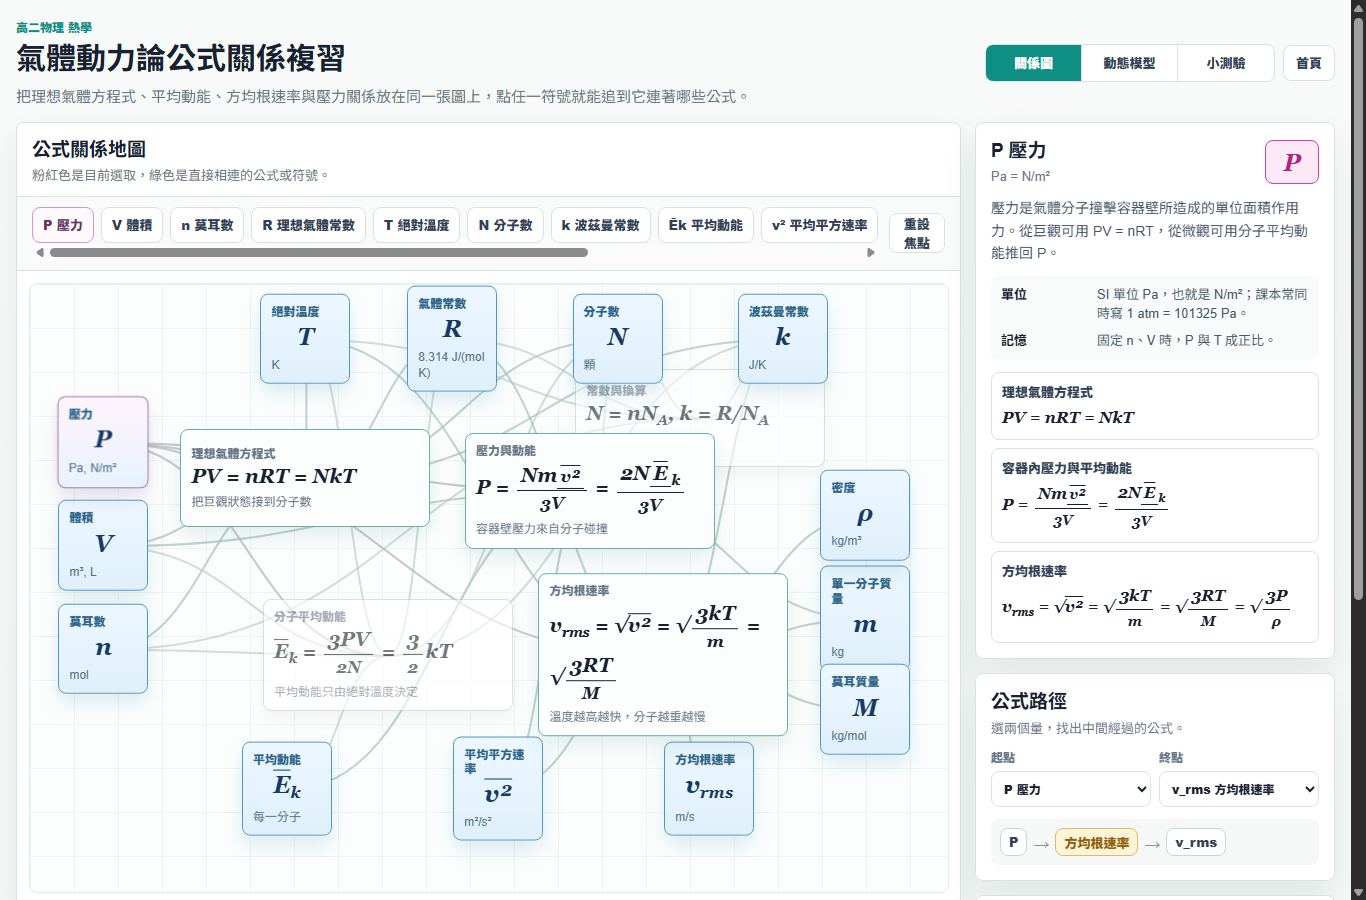
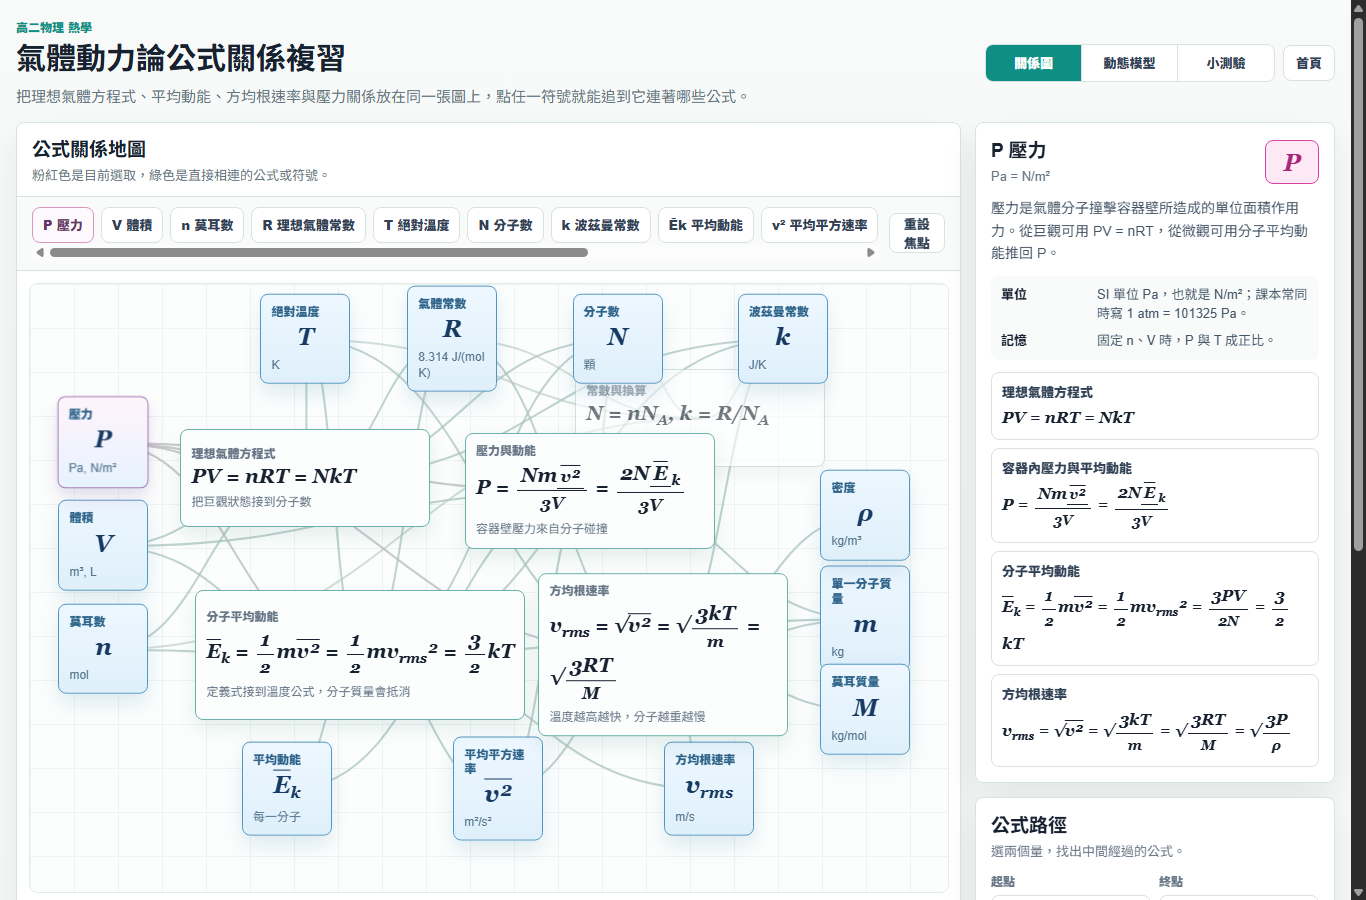
Add kinetic energy definition to gas review

diff --git a/gas-kinetic-theory.html b/gas-kinetic-theory.html
@@ -902,7 +902,7 @@
 
               <div class="node formula" data-id="ideal" data-kind="formula" style="--x:30%;--y:32%;"><button type="button"><span class="node-label">理想氣體方程式</span><span class="node-title math">PV = nRT = NkT</span><span class="node-desc">把巨觀狀態接到分子數</span></button></div>
               <div class="node formula" data-id="pressure" data-kind="formula" style="--x:61%;--y:34%;"><button type="button"><span class="node-label">壓力與動能</span><span class="node-title math">P = <span class="frac"><span>Nm<span class="overline">v²</span></span><span>3V</span></span> = <span class="frac"><span>2N<span class="overline">E</span><sub>k</sub></span><span>3V</span></span></span><span class="node-desc">容器壁壓力來自分子碰撞</span></button></div>
-              <div class="node formula" data-id="energy" data-kind="formula" style="--x:39%;--y:61%;"><button type="button"><span class="node-label">分子平均動能</span><span class="node-title math"><span class="overline">E</span><sub>k</sub> = <span class="frac"><span>3PV</span><span>2N</span></span> = <span class="frac"><span>3</span><span>2</span></span>kT</span><span class="node-desc">平均動能只由絕對溫度決定</span></button></div>
+              <div class="node formula" data-id="energy" data-kind="formula" style="--x:36%;--y:61%;--w:330px;--h:128px;"><button type="button"><span class="node-label">分子平均動能</span><span class="node-title math"><span class="overline">E</span><sub>k</sub> = <span class="frac"><span>1</span><span>2</span></span>m<span class="overline">v²</span> = <span class="frac"><span>1</span><span>2</span></span>mv<sub>rms</sub>² = <span class="frac"><span>3</span><span>2</span></span>kT</span><span class="node-desc">定義式接到溫度公式，分子質量會抵消</span></button></div>
               <div class="node formula" data-id="speed" data-kind="formula" style="--x:69%;--y:61%;"><button type="button"><span class="node-label">方均根速率</span><span class="node-title math">v<sub>rms</sub> = √<span class="overline">v²</span> = √<span class="frac"><span>3kT</span><span>m</span></span> = √<span class="frac"><span>3RT</span><span>M</span></span></span><span class="node-desc">溫度越高越快，分子越重越慢</span></button></div>
               <div class="node formula" data-id="constants" data-kind="formula" style="--x:73%;--y:22%;"><button type="button"><span class="node-label">常數與換算</span><span class="node-title math">N = nN<sub>A</sub>, k = R/N<sub>A</sub></span><span class="node-desc">T(K) = 273.15 + t(°C)</span></button></div>
             </div>
@@ -968,7 +968,7 @@
           <div class="readout-grid" aria-label="計算結果">
             <div class="readout"><b>壓力 P</b><span id="pressureOut">0 Pa</span><small id="pressureAtmOut">0 atm</small></div>
             <div class="readout"><b>分子數 N</b><span id="moleculesOut">0</span><small>N = nN<sub>A</sub></small></div>
-            <div class="readout"><b>平均動能 <span class="math overline">E</span><sub>k</sub></b><span id="energyOut">0 J</span><small><span class="math">3kT/2</span></small></div>
+            <div class="readout"><b>平均動能 <span class="math overline">E</span><sub>k</sub></b><span id="energyOut">0 J</span><small><span class="math">mv<sub>rms</sub>²/2 = 3kT/2</span></small></div>
             <div class="readout"><b>方均根速率 v<sub>rms</sub></b><span id="vrmsOut">0 m/s</span><small><span class="math">√(3RT/M)</span></small></div>
             <div class="readout"><b>密度 ρ</b><span id="densityOut">0 kg/m³</span><small><span class="math">ρ = nM/V</span></small></div>
             <div class="readout"><b>壓力驗算</b><span id="rhoCheckOut">0 Pa</span><small><span class="math">P = ρv<sub>rms</sub>²/3</span></small></div>
@@ -1010,7 +1010,7 @@
           </div>
           <div class="derivation" aria-label="公式代入">
             <div class="step">理想氣體方程式<span class="math" id="idealStep">P = nRT/V</span></div>
-            <div class="step">平均動能只看溫度<span class="math" id="energyStep"><span class="overline">E</span><sub>k</sub> = 3kT/2</span></div>
+            <div class="step">平均動能先由速率定義，再化成溫度公式<span class="math" id="energyStep"><span class="overline">E</span><sub>k</sub> = mv<sub>rms</sub>²/2 = 3kT/2</span></div>
             <div class="step">速率同時受溫度與分子質量影響<span class="math" id="speedStep">v<sub>rms</sub> = √(3RT/M)</span></div>
           </div>
         </aside>
@@ -1043,7 +1043,7 @@
             <div class="derivation">
               <div class="step"><span class="math">PV = nRT = NkT</span></div>
               <div class="step"><span class="math">N = nN<sub>A</sub>, k = R/N<sub>A</sub></span></div>
-              <div class="step"><span class="math"><span class="overline">E</span><sub>k</sub> = 3PV/(2N) = 3kT/2</span></div>
+              <div class="step"><span class="math"><span class="overline">E</span><sub>k</sub> = <span class="frac"><span>1</span><span>2</span></span>m<span class="overline">v²</span> = <span class="frac"><span>1</span><span>2</span></span>mv<sub>rms</sub>² = 3PV/(2N) = 3kT/2</span></div>
               <div class="step"><span class="math">v<sub>rms</sub> = √<span class="overline">v²</span> = √(3kT/m) = √(3RT/M) = √(3P/ρ)</span></div>
             </div>
           </section>
@@ -1073,9 +1073,9 @@
       },
       energy: {
         title: "分子平均動能",
-        html: "<span class=\"math\"><span class=\"overline\">E</span><sub>k</sub> = <span class=\"frac\"><span>3PV</span><span>2N</span></span> = <span class=\"frac\"><span>3nRT</span><span>2N</span></span> = <span class=\"frac\"><span>3</span><span>2</span></span>kT</span>",
-        symbols: ["Ek", "P", "V", "N", "n", "R", "T", "k"],
-        note: "對理想氣體而言，單一分子的平均動能只由絕對溫度 T 決定。"
+        html: "<span class=\"math\"><span class=\"overline\">E</span><sub>k</sub> = <span class=\"frac\"><span>1</span><span>2</span></span>m<span class=\"overline\">v²</span> = <span class=\"frac\"><span>1</span><span>2</span></span>mv<sub>rms</sub>² = <span class=\"frac\"><span>3PV</span><span>2N</span></span> = <span class=\"frac\"><span>3</span><span>2</span></span>kT</span>",
+        symbols: ["Ek", "m", "v2", "vrms", "P", "V", "N", "n", "R", "T", "k"],
+        note: "平均動能先由 E = 1/2 mv² 定義；對理想氣體代入 v_rms 後，可化成只由絕對溫度 T 決定。"
       },
       speed: {
         title: "方均根速率",
@@ -1099,7 +1099,7 @@
         units: "SI 單位 Pa，也就是 N/m²；課本常同時寫 1 atm = 101325 Pa。",
         body: "壓力是氣體分子撞擊容器壁所造成的單位面積作用力。從巨觀可用 PV = nRT，從微觀可用分子平均動能推回 P。",
         tip: "固定 n、V 時，P 與 T 成正比。",
-        formulas: ["ideal", "pressure", "speed"]
+        formulas: ["ideal", "pressure", "energy", "speed"]
       },
       V: {
         label: "V 體積",
@@ -1160,8 +1160,8 @@
         symbol: "Ēk",
         subtitle: "J",
         units: "焦耳 J，指單一分子的平均平移動能。",
-        body: "氣體分子速率不同，因此討論平均動能。理想氣體的平均動能只和絕對溫度有關。",
-        tip: "Ēk = 3kT/2 是這章的核心句。",
+        body: "氣體分子速率不同，因此討論平均動能。定義上 Ēk = 1/2 m v_rms²；對理想氣體再可化成 Ēk = 3kT/2。",
+        tip: "先記定義式 1/2 m v_rms²，再看它如何等於 3kT/2。",
         formulas: ["pressure", "energy"]
       },
       v2: {
@@ -1169,27 +1169,27 @@
         symbol: "v²",
         subtitle: "m²/s²",
         units: "速率平方的平均值，單位 m²/s²。",
-        body: "先把每個分子的速率平方後取平均，再開根號就得到 v_rms。",
-        tip: "平均平方再開根號，不是平均速率。",
-        formulas: ["pressure", "speed"]
+        body: "先把每個分子的速率平方後取平均，再開根號就得到 v_rms。平均動能也正是用這個平均平方速率定義。",
+        tip: "Ēk = 1/2 m v²平均，v_rms² = v²平均。",
+        formulas: ["pressure", "energy", "speed"]
       },
       vrms: {
         label: "v_rms 方均根速率",
         symbol: "vᵣₘₛ",
         subtitle: "m/s",
         units: "公尺每秒 m/s。",
-        body: "v_rms 是用來描述一群分子速率大小的代表值。它可由 T 與分子質量求出，也可由 P 與密度求出。",
+        body: "v_rms 是用來描述一群分子速率大小的代表值。平均動能可寫成 Ēk = 1/2 m v_rms²，它也可由 T 與分子質量求出。",
         tip: "v_rms ∝ √T，且 v_rms ∝ 1/√M。",
-        formulas: ["speed"]
+        formulas: ["energy", "speed"]
       },
       m: {
         label: "m 單一分子質量",
         symbol: "m",
         subtitle: "kg",
         units: "單一分子的質量，m = M/N_A。",
-        body: "若使用 kT 這種單一分子版本，速率公式裡要放單一分子質量 m。",
+        body: "單一分子質量會出現在平均動能定義式 Ēk = 1/2 m v_rms²。若使用 kT 這種單一分子版本，速率公式裡也要放 m。",
         tip: "m 搭配 k，M 搭配 R。",
-        formulas: ["pressure", "speed"]
+        formulas: ["pressure", "energy", "speed"]
       },
       M: {
         label: "M 莫耳質量",
@@ -1504,6 +1504,7 @@
       const n = Number(controls.moles.value);
       const M = Number(controls.gasSelect.value);
       const gasName = controls.gasSelect.selectedOptions[0].dataset.name;
+      const moleculeMass = M / NA;
       const P = n * R * T / V;
       const N = n * NA;
       const Ek = 1.5 * kB * T;
@@ -1511,7 +1512,8 @@
       const v2 = vrms * vrms;
       const rho = n * M / V;
       const pressureCheck = rho * v2 / 3;
-      return { T, volumeL, V, n, M, gasName, P, N, Ek, vrms, v2, rho, pressureCheck };
+      const EkFromSpeed = 0.5 * moleculeMass * v2;
+      return { T, volumeL, V, n, M, moleculeMass, gasName, P, N, Ek, EkFromSpeed, vrms, v2, rho, pressureCheck };
     }
 
     function updateLabOutputs() {
@@ -1530,7 +1532,7 @@
       labOut.v2.textContent = `${formatSci(m.v2, 3)} m²/s²`;
       labOut.celsius.textContent = `${formatNumber(m.T - 273.15, 1)} °C`;
       labOut.idealStep.innerHTML = `P = nRT/V = (${m.n.toFixed(2)})(8.314)(${m.T.toFixed(0)}) / ${m.V.toFixed(3)} = ${formatSci(m.P, 3)} Pa`;
-      labOut.energyStep.innerHTML = `<span class="overline">E</span><sub>k</sub> = 3kT/2 = ${formatSci(m.Ek, 3)} J`;
+      labOut.energyStep.innerHTML = `<span class="overline">E</span><sub>k</sub> = 1/2 m v<sub>rms</sub>² = 1/2(${formatSci(m.moleculeMass, 3)})(${formatNumber(m.vrms, 1)})² = ${formatSci(m.EkFromSpeed, 3)} J = 3kT/2`;
       labOut.speedStep.innerHTML = `v<sub>rms</sub> = √(3RT/M) = ${formatNumber(m.vrms, 1)} m/s`;
       return m;
     }
@@ -1762,7 +1764,7 @@
         q: "Ēk = 3kT/2 代表理想氣體單一分子的平均動能取決於什麼？",
         choices: ["只取決於絕對溫度 T", "取決於壓力 P 和體積 V，但不取決於 T", "只取決於分子質量 M", "取決於容器形狀"],
         answer: 0,
-        why: "理想氣體平移平均動能只和絕對溫度成正比。"
+        why: "定義式是 Ēk = 1/2 m v_rms²；再代入 v_rms² = 3kT/m 後，m 會抵消，所以理想氣體平移平均動能只和絕對溫度成正比。"
       },
       {
         q: "公式 v_rms = √(3P/ρ) 可以從哪個核心關係改寫而來？",